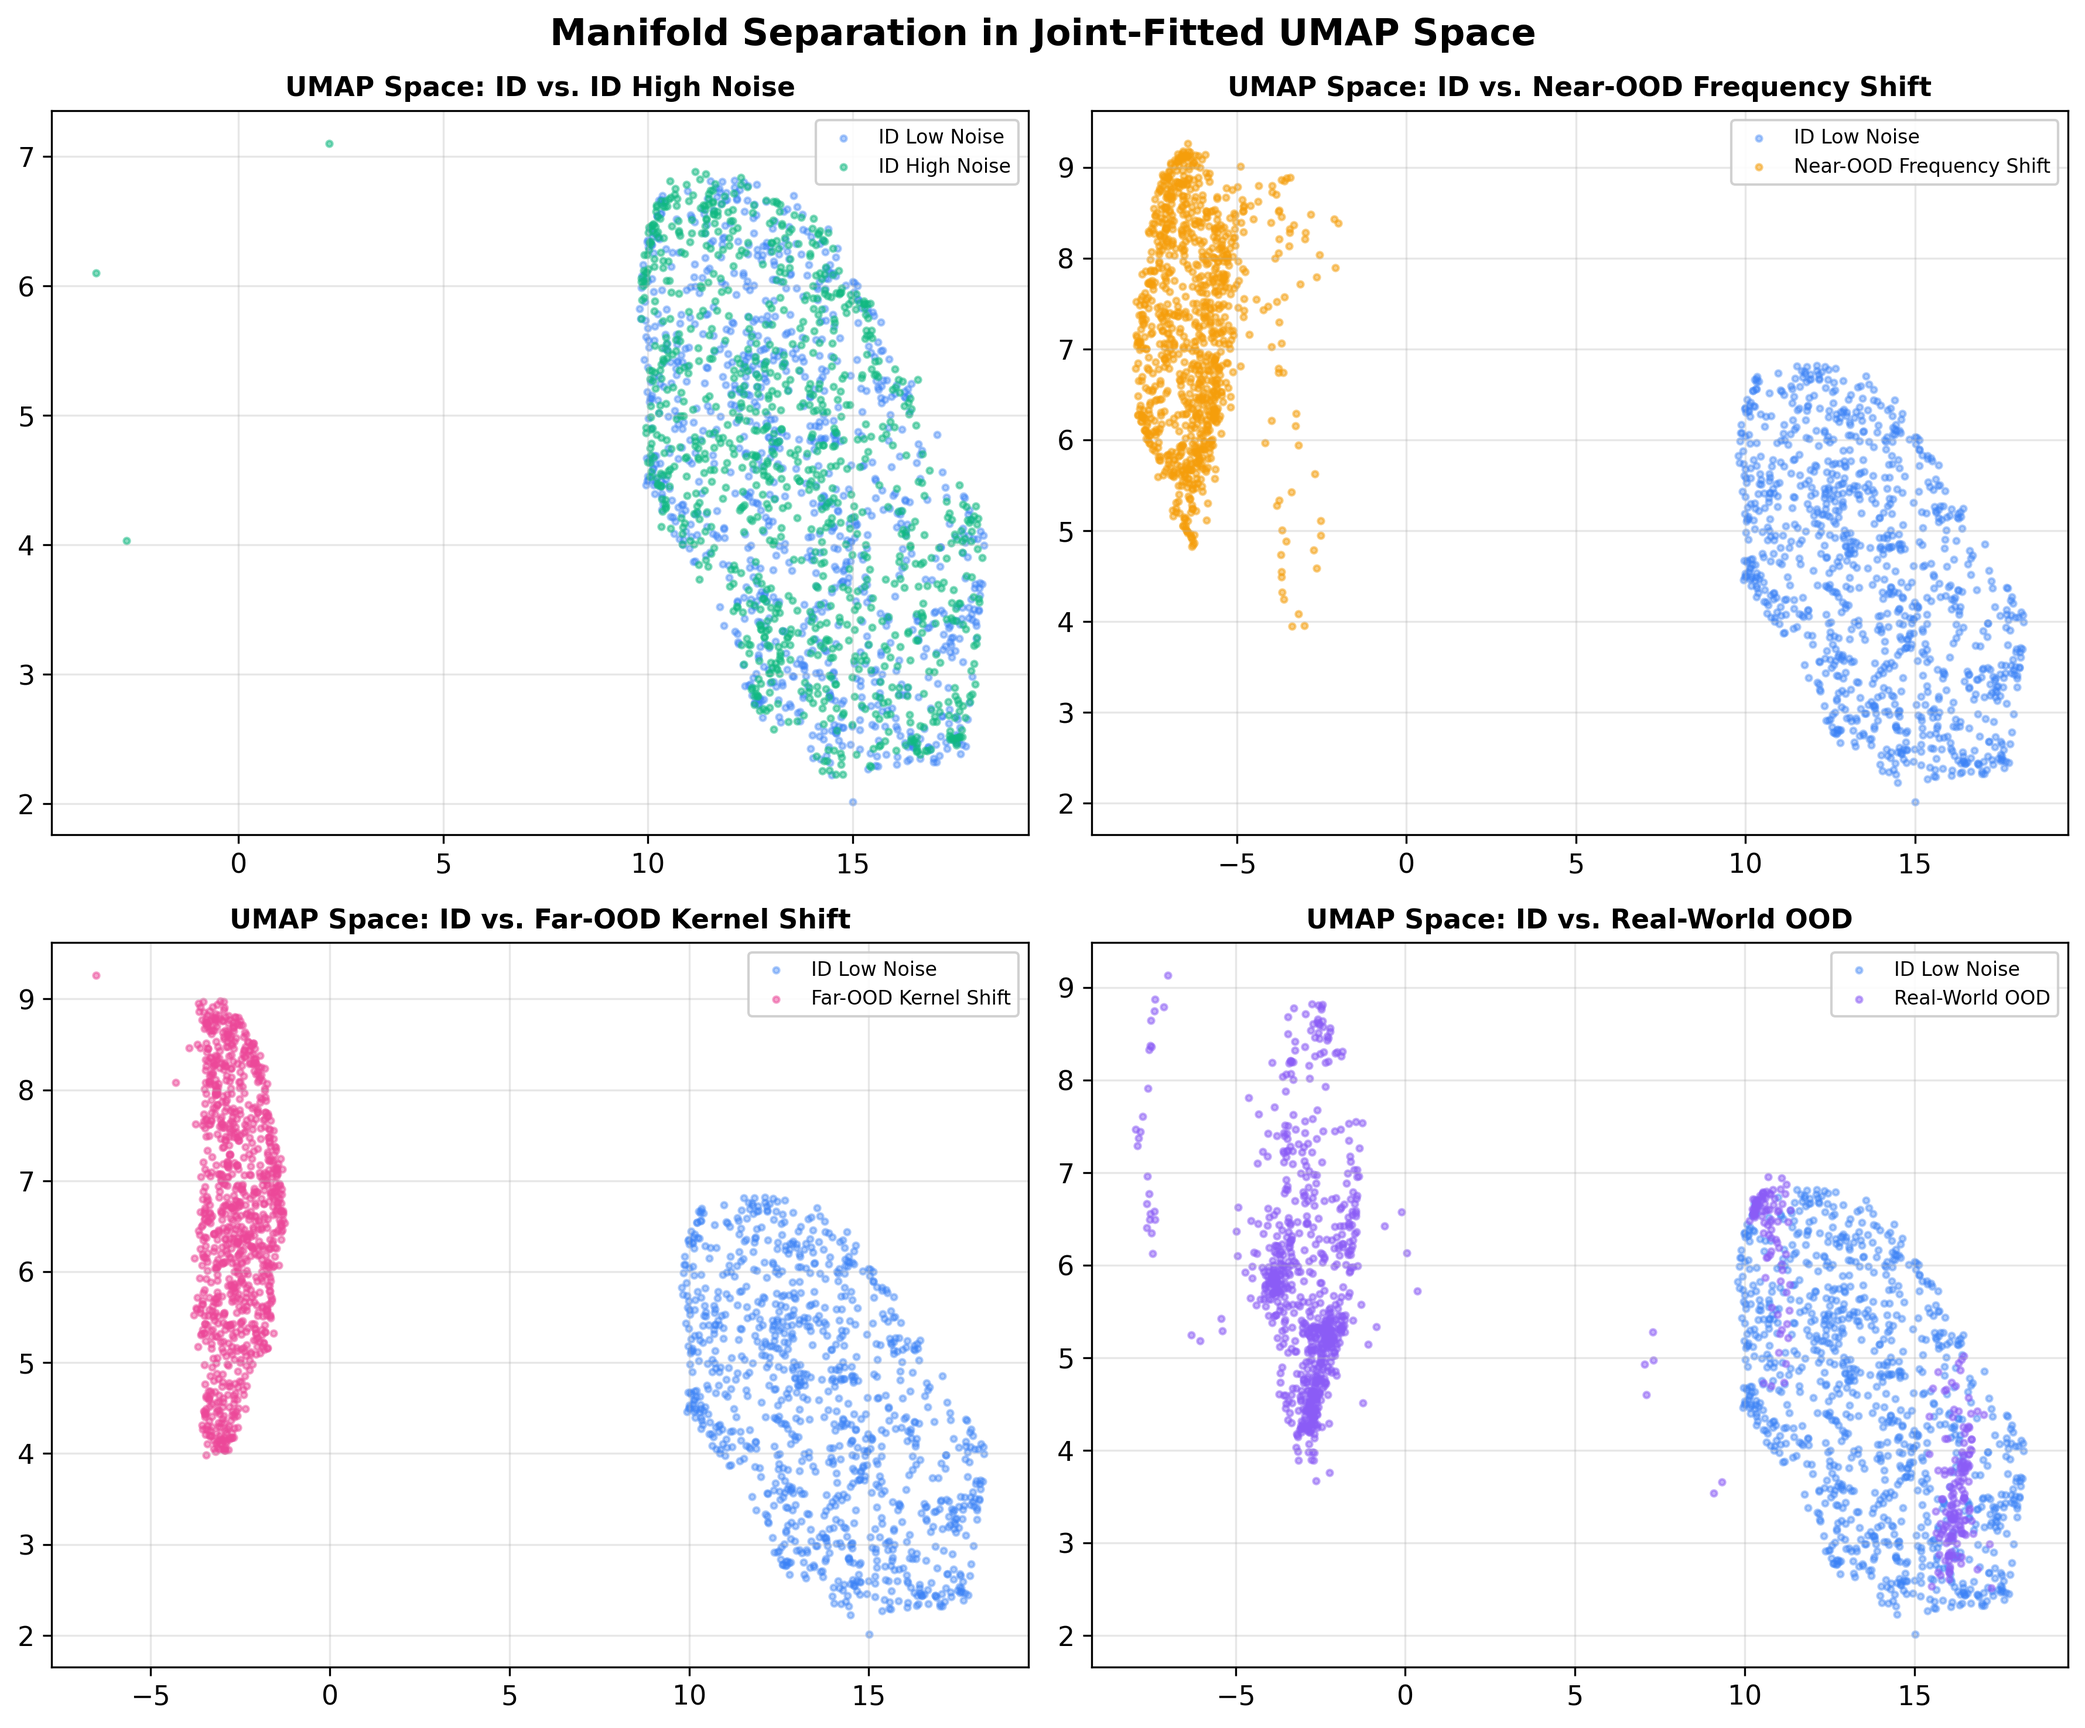
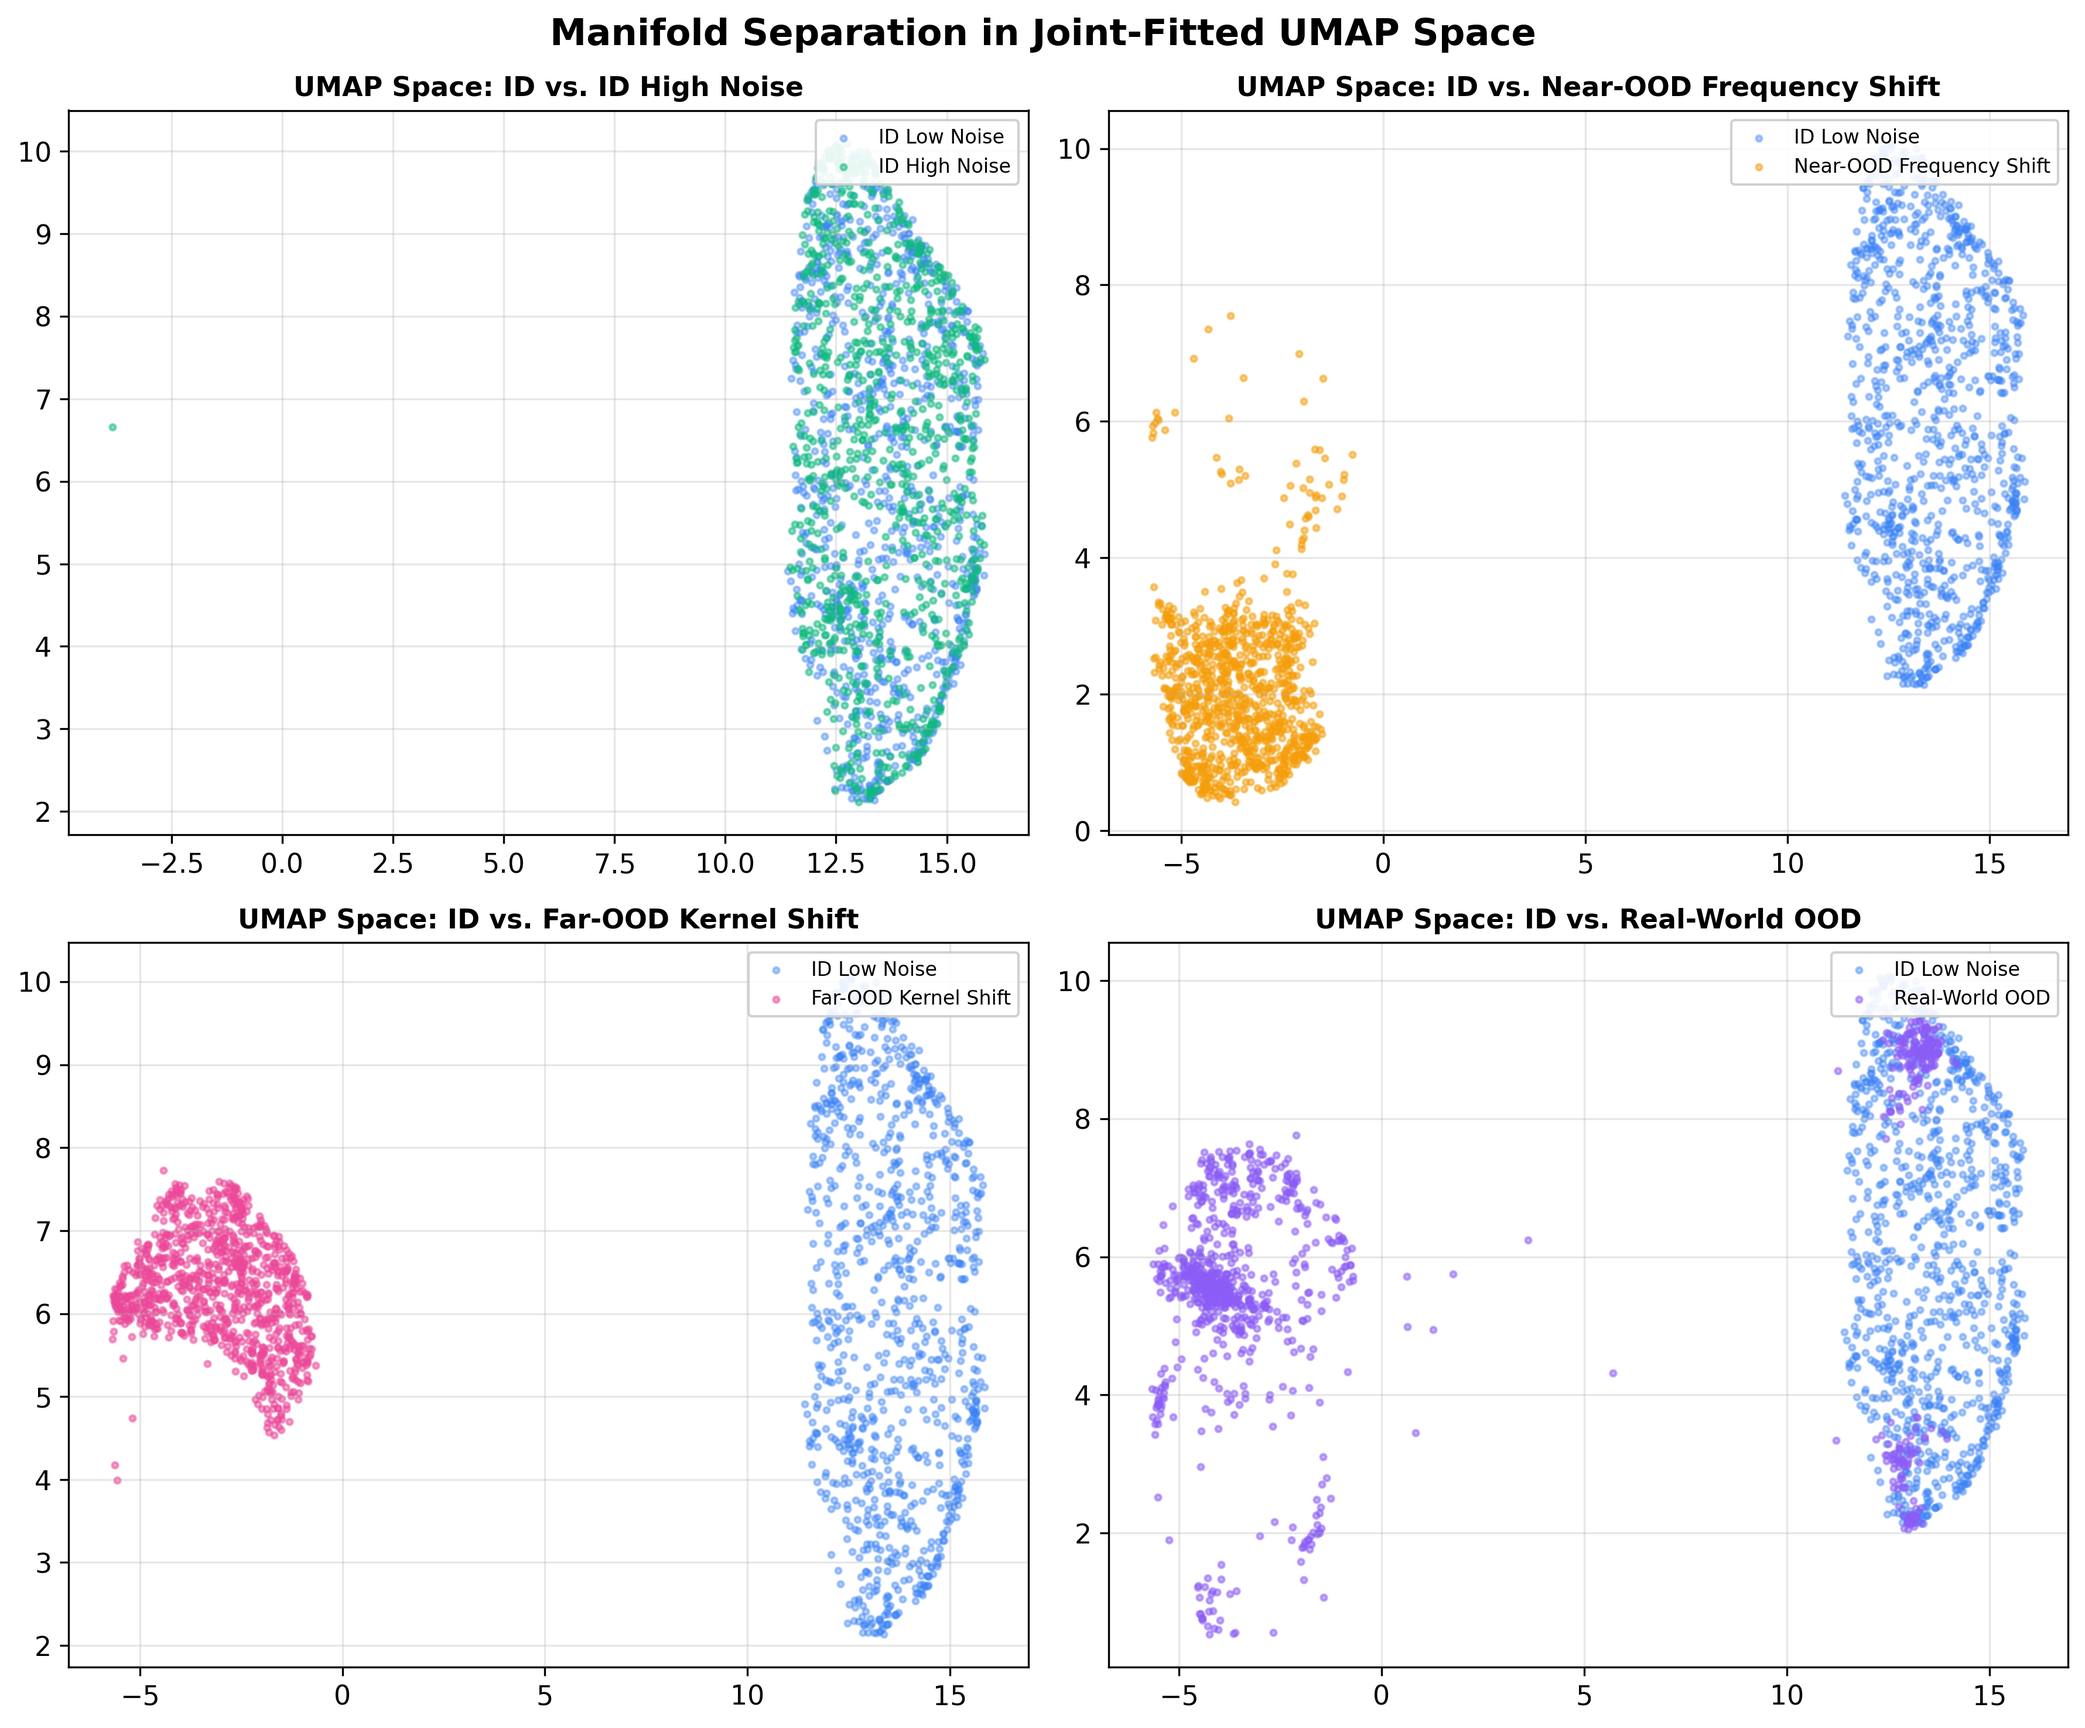
more new plots

diff --git a/gp_pfn_sm/test_suites.py b/gp_pfn_sm/test_suites.py
@@ -22,47 +22,47 @@ def generate_id_high_noise(batch_size, num_points=100, device="cpu"):
     jitter = torch.rand(batch_size, num_points, 1, device=device) * bin_width * 0.6
     xs = grid_starts + jitter
     xs, _ = xs.sort(dim=1)
-    
+
     # 5 active components
     max_components = 5
     n_active = torch.ones((batch_size, 1), device=device, dtype=torch.long) * max_components
     idx = torch.arange(max_components, device=device).expand(batch_size, -1)
     mask = (idx < n_active).float()
-    
+
     means = torch.rand(batch_size, max_components, device=device)
     means[:, 0] = means[:, 0] * 0.2
     means[:, 1:] = means[:, 1:] * 2.5
-    
+
     scales = torch.rand(batch_size, max_components, device=device)
     scales[:, 0] = scales[:, 0] * 0.1 + 0.01
     scales[:, 1:] = scales[:, 1:] * 0.7 + 0.05
-    
+
     weights = torch.rand(batch_size, max_components, device=device)
-    weights = weights * mask 
+    weights = weights * mask
     weights = weights / (weights.sum(dim=1, keepdim=True) + 1e-6)
-    
+
     from gp_pfn_sm.data_generators import spectral_mixture_kernel
     K = spectral_mixture_kernel(xs, xs, weights, means, scales)
-    
+
     # High observation noise: 0.1 + small jitter
-    noise_level = torch.ones(batch_size, 1, device=device) * 0.1
+    noise_level = torch.ones(batch_size, 1, device=device) * 0.05
     K = K + (noise_level.unsqueeze(-1) ** 2 + 1e-5) * torch.eye(num_points, device=device).unsqueeze(0)
-    
+
     # Sample y ~ N(0, K)
     S, U = torch.linalg.eigh(K)
     S = torch.clamp(S, min=0.0)
     eps = torch.randn(batch_size, num_points, 1, device=device)
     ys = (U @ (S.sqrt().unsqueeze(-1) * eps)).squeeze(-1)
-    
+
     # Normalize targets
     ys = ys - ys.mean(dim=-1, keepdim=True)
     ys = ys / (ys.std(dim=-1, keepdim=True) + 1e-8)
-    
+
     # Random permutation
     perm = torch.randperm(num_points, device=device)
     xs = xs[:, perm, :]
     ys = ys[:, perm]
-    
+
     return xs, ys
 
 def generate_near_ood(batch_size, num_points=100, device="cpu"):
@@ -86,60 +86,60 @@ def generate_real_world_ood(batch_size, num_points=100, device="cpu"):
     data_dir = "gp_pfn_sm/data"
     temp_path = os.path.join(data_dir, "temperatures.csv")
     airline_path = os.path.join(data_dir, "airline.csv")
-    
+
     # Load and clean temperature data
     temp_df = pd.read_csv(temp_path)
     # The temperature column is named "Temp" or "Daily minimum temperatures"
     temp_col = temp_df.columns[1]
     temp_vals = pd.to_numeric(temp_df[temp_col], errors='coerce').dropna().values
-    
+
     # Load airline passenger data
     airline_df = pd.read_csv(airline_path)
     airline_col = airline_df.columns[1]
     airline_vals = pd.to_numeric(airline_df[airline_col], errors='coerce').dropna().values
-    
+
     # Prepare all possible slices of length 100
     slices = []
-    
+
     # Temperature slices (sliding window, step 2 to keep slices relatively diverse)
     for i in range(0, len(temp_vals) - num_points, 2):
         slices.append(temp_vals[i : i + num_points])
-        
+
     # Airline slices (sliding window, step 1)
     for i in range(0, len(airline_vals) - num_points, 1):
         slices.append(airline_vals[i : i + num_points])
-        
+
     # Randomly shuffle slices to sample from
     np.random.seed(42)
     np.random.shuffle(slices)
-    
+
     xs_list = []
     ys_list = []
-    
+
     for i in range(batch_size):
         # Retrieve a slice (looping if we run out of slices)
         slice_idx = i % len(slices)
         y_raw = slices[slice_idx]
-        
+
         # Construct sorted x-values in [0, 1] with stratified jitter
         bin_width = 1.0 / num_points
         grid = np.linspace(0.0, 1.0 - bin_width, num_points)
         jitter = np.random.rand(num_points) * bin_width * 0.6
         x = grid + jitter
         x = np.sort(x)
-        
+
         # Standardize y
         y = (y_raw - np.mean(y_raw)) / (np.std(y_raw) + 1e-8)
-        
+
         # Apply random permutation
         perm = np.random.permutation(num_points)
         x_perm = x[perm].reshape(num_points, 1)
         y_perm = y[perm]
-        
+
         xs_list.append(x_perm)
         ys_list.append(y_perm)
-        
+
     xs = torch.tensor(np.array(xs_list), dtype=torch.float32, device=device)
     ys = torch.tensor(np.array(ys_list), dtype=torch.float32, device=device)
-    
+
     return xs, ys
